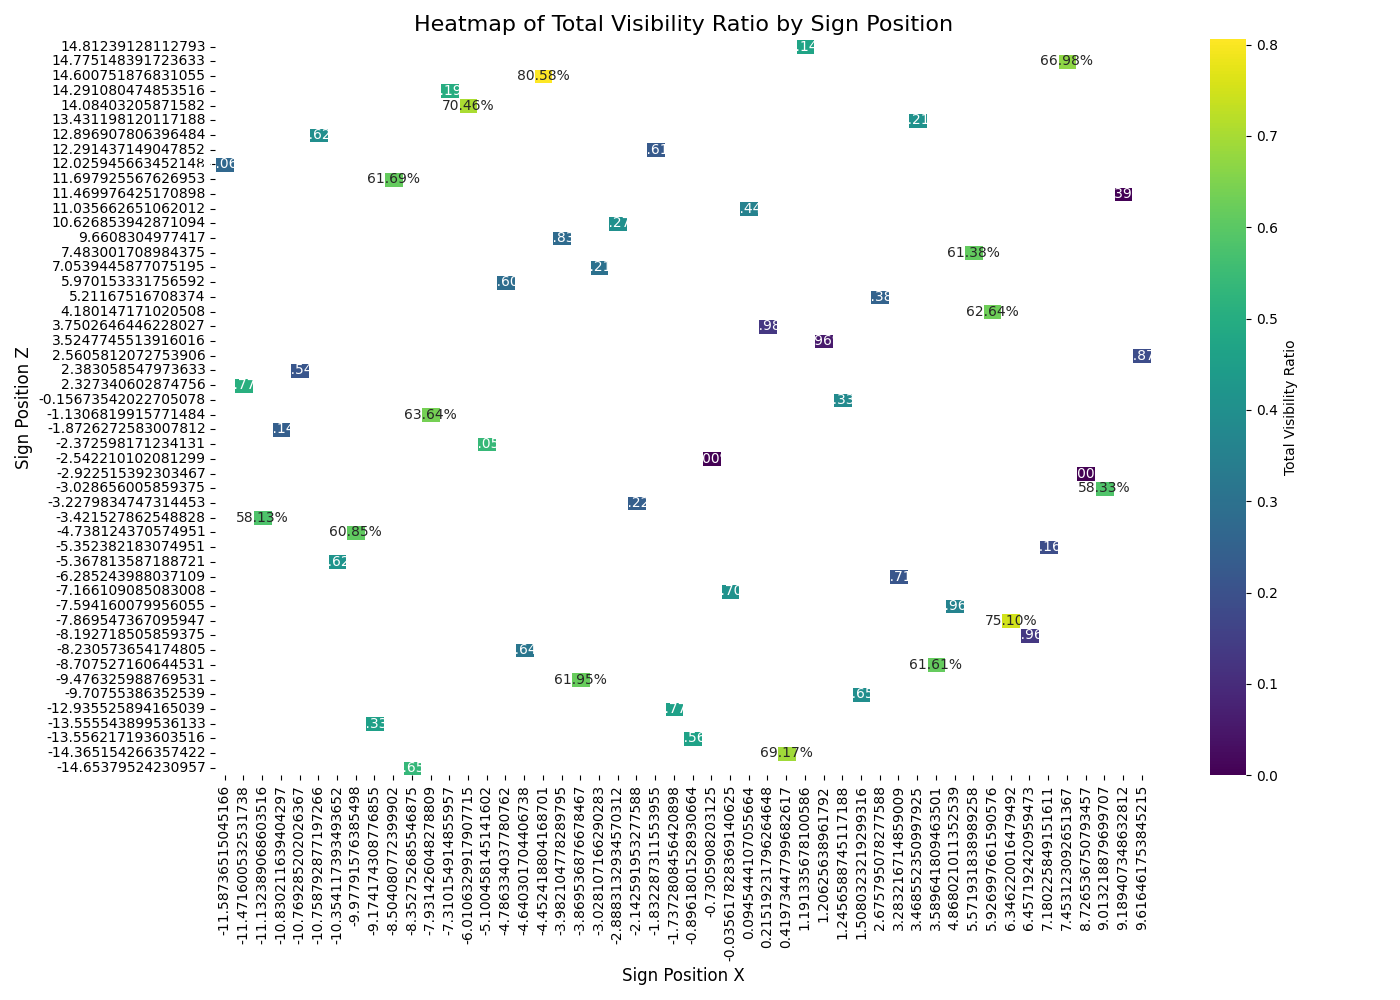
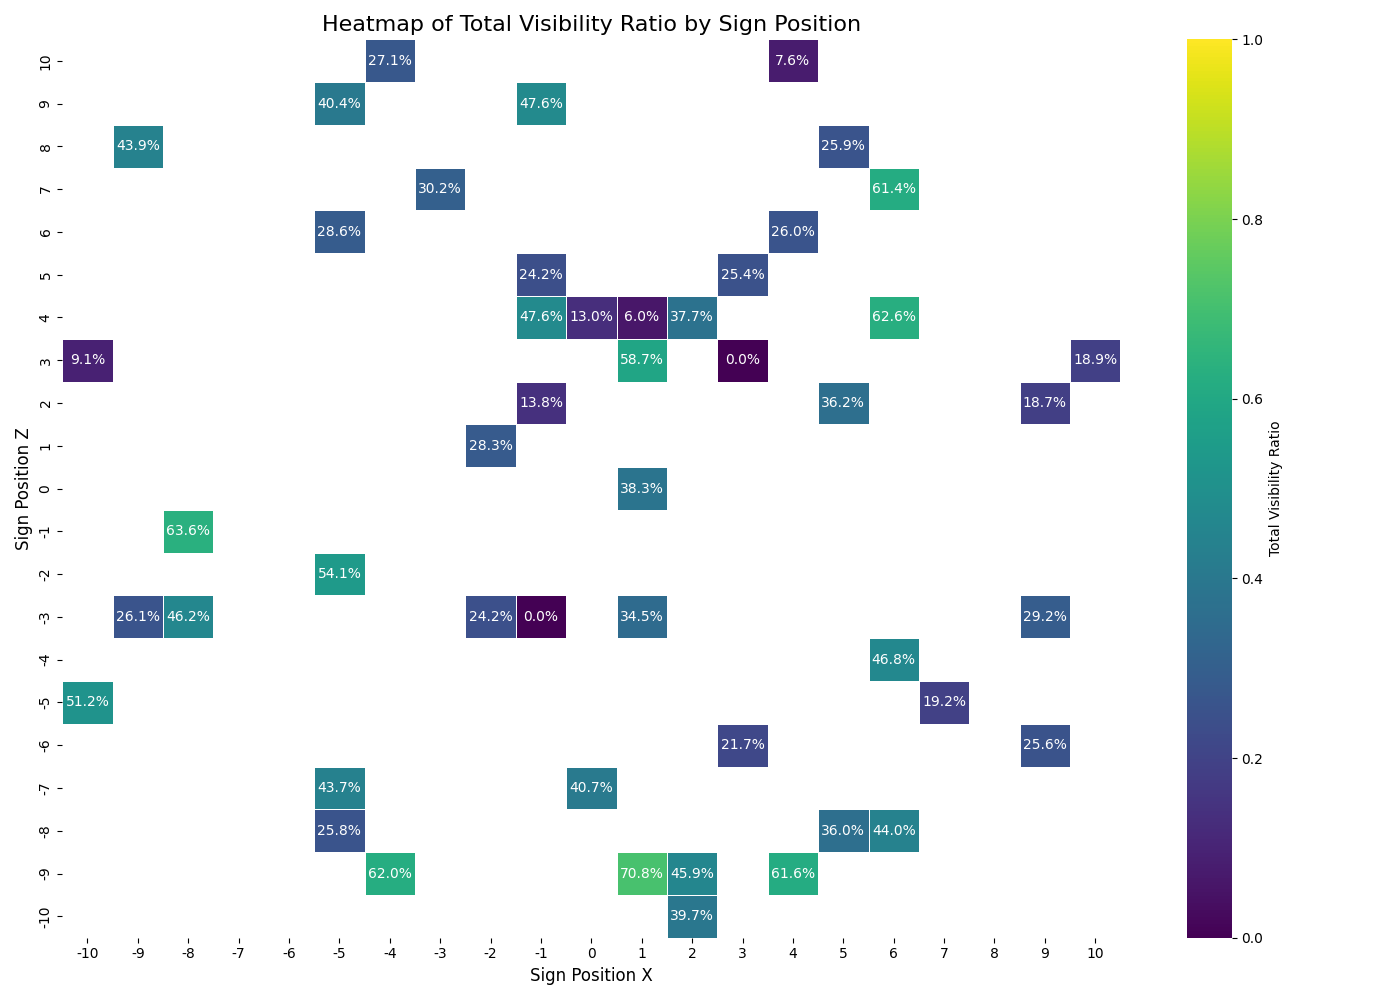
Close positions merged and avg.ed

diff --git a/Data_analysis/heatmap.py b/Data_analysis/heatmap.py
@@ -96,22 +96,34 @@ else:
         df.dropna(subset=['x', 'z'], inplace=True)
 
         if not df.empty:
-            # Create a pivot table for the heatmap. Use mean for duplicate positions.
-            try:
-                heatmap_pivot = df.pivot_table(index='z', columns='x', values='visibility', aggfunc='mean')
-                
-                # Sort the pivot table for a correct plot
-                heatmap_pivot.sort_index(axis=0, ascending=False, inplace=True)
-                heatmap_pivot.sort_index(axis=1, ascending=True, inplace=True)
+            # --- New: convert positions to nearest integer bins and aggregate ---
+            df['x_int'] = df['x'].astype(float).round().astype(int)
+            df['z_int'] = df['z'].astype(float).round().astype(int)
 
+            # Pivot using integer positions and mean visibility for duplicates
+            try:
+                heatmap_pivot = df.pivot_table(index='z_int', columns='x_int', values='visibility', aggfunc='mean')
+                
+                # Define the desired integer range for axes
+                x_range = list(range(-10, 11))
+                z_range = list(range(10, -11, -1))  # descending so top is +10
+
+                # Reindex to include full grid and keep NaNs where no data
+                heatmap_pivot = heatmap_pivot.reindex(index=z_range, columns=x_range)
+                # --- End new section ---
+
+                # Make results directory and save plot
+                os.makedirs('results', exist_ok=True)
                 plt.figure(figsize=(14, 10))
-                sns.heatmap(heatmap_pivot, annot=True, fmt=".2%", cmap="viridis", linewidths=.5, cbar_kws={'label': 'Total Visibility Ratio'})
+                # mask NaNs so they are not annotated
+                mask = heatmap_pivot.isna()
+                sns.heatmap(heatmap_pivot, mask=mask, vmin=0, vmax=1, annot=True, fmt=".1%", cmap="viridis", linewidths=.5, cbar_kws={'label': 'Total Visibility Ratio'})
                 plt.title('Heatmap of Total Visibility Ratio by Sign Position', fontsize=16)
                 plt.xlabel('Sign Position X', fontsize=12)
                 plt.ylabel('Sign Position Z', fontsize=12)
                 plt.tight_layout()
                 plt.savefig('results/heatmap.png')
-                print("\nHeatmap successfully saved as heatmap.png")
+                print("\nHeatmap successfully saved as results/heatmap.png")
             except Exception as e:
                 print(f"\nCould not generate heatmap. Error: {e}")
         else:
